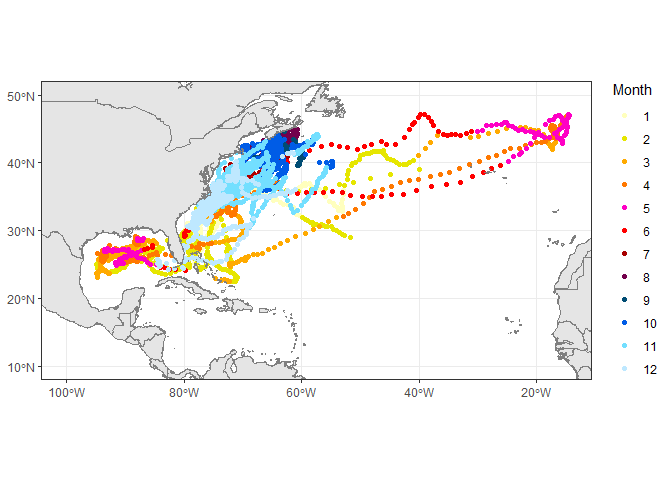
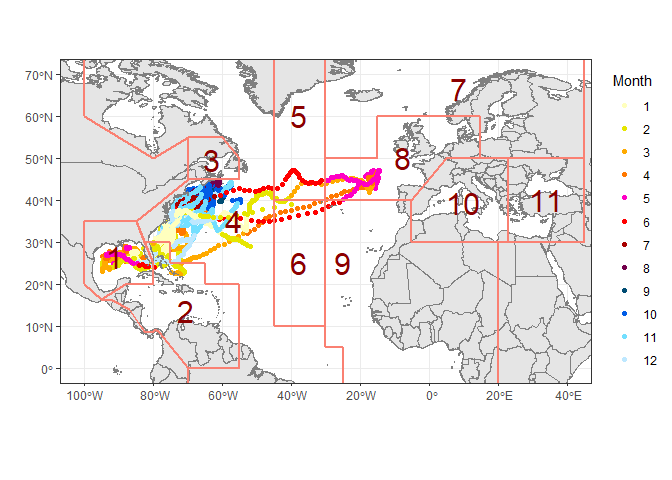
add 11box to map

diff --git a/readme.md b/readme.md
@@ -1,4 +1,4 @@
-SatTagSim
+SatTagSim Homepage
 ================
 Benjamin Galuardi
 
@@ -16,32 +16,6 @@ explicit operational and stock assessment models and management strategy
 evaluations.
 
 ## Installation
-```
-install.packages('devtools')
-devtools::install_github("galuardi/SatTagSim")
-```
-I like to ignore dependencies but this package requires a good amount so perhap don't! Here they are to save you a click or two.. 
-
-```
-Depends:
-    MASS,
-    fields,
-    dplyr,
-    plyr, # future versions should get rid of this one
-    raster, # still here for now.. I know the world has moved on to terra
-    truncnorm,
-    date,
-    parallel,
-    doParallel,
-    foreach,
-    matlab,
-    Gmisc,
-    ggplot2, # I will probably drop this and others in favor of simply using 'tidyverse'
-    reshape2, # future versions should get rid of this one
-    rworldmap,
-    abind,
-    magic
-```
 
 ## Tag Data
 
